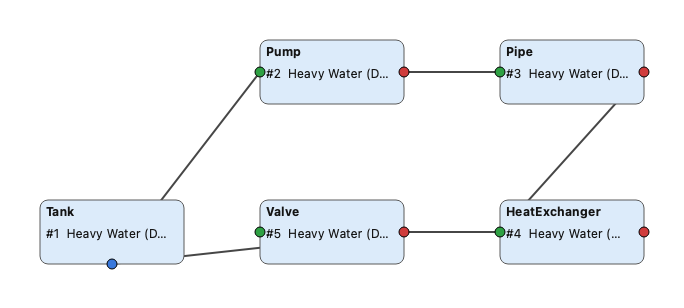
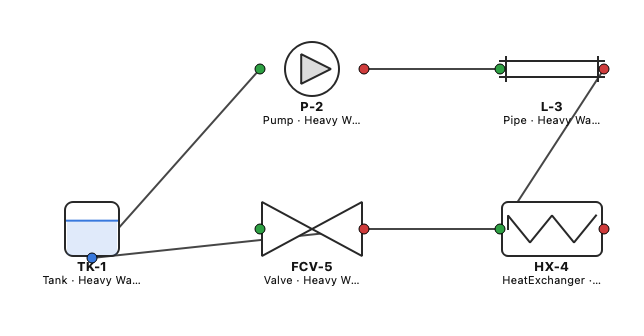
feat: P&ID symbols per component type with tags shown on canvas
Boundary=circle, Pump=circle+impeller, Valve=bowtie, Tank=cylinder with
live level, Orifice=plate, Pipe=flanged spool, HX=shell+serpentine,
Junction=node, Transmitter/Controller=ISA bubble, Actuator=diaphragm.
P&ID tag rendered under each symbol with type/fluid caption.

Changed region(s): [[0.0311, 0.3506, 0.9627, 0.8766], [0.3416, 0.1169, 0.9627, 0.4091], [0.8385, 0.4091, 0.8696, 0.4968]]

diff --git a/src/gui/DiagramItems.cpp b/src/gui/DiagramItems.cpp
@@ -2,6 +2,7 @@
 
 #include <QFont>
 #include <QPainter>
+#include <QPainterPath>
 #include <QPen>
 #include <cmath>
 
@@ -12,21 +13,118 @@ namespace umpnap {
 namespace {
 QColor portColor(PortRole r) {
   switch (r) {
-    case PortRole::Inlet: return QColor(46, 160, 67);    // green
-    case PortRole::Outlet: return QColor(207, 60, 60);   // red
-    case PortRole::Bidirectional: return QColor(56, 120, 220);  // blue
+    case PortRole::Inlet: return QColor(46, 160, 67);          // green
+    case PortRole::Outlet: return QColor(207, 60, 60);         // red
+    case PortRole::Bidirectional: return QColor(56, 120, 220); // blue
   }
   return Qt::gray;
 }
-QColor domainColor(Domain d) {
-  switch (d) {
-    case Domain::Hydraulic: return QColor(220, 235, 250);
-    case Domain::Gas: return QColor(245, 240, 220);
-    case Domain::Thermal: return QColor(250, 225, 220);
-    case Domain::Electrical: return QColor(235, 245, 225);
-    case Domain::Control: return QColor(235, 230, 245);
+
+// Draw the standard P&ID symbol for a component type inside rect g.
+void drawSymbol(QPainter* p, const std::string& type, const Component& c,
+                const QRectF& g) {
+  p->setRenderHint(QPainter::Antialiasing, true);
+  QPen line(QColor(40, 40, 40));
+  line.setWidth(2);
+  p->setPen(line);
+  p->setBrush(QColor(255, 255, 255));
+
+  const double cx = g.center().x(), cy = g.center().y();
+  const double r = std::min(g.width(), g.height()) / 2.0 - 2.0;
+
+  if (type == "Boundary") {
+    // Source/sink: circle.
+    p->drawEllipse(QPointF(cx, cy), r, r);
+
+  } else if (type == "Tank") {
+    // Vertical cylinder with a liquid level line.
+    QRectF body(cx - r, g.top() + 2, 2 * r, g.height() - 4);
+    double ry = std::min(8.0, body.height() / 4);
+    p->drawRoundedRect(body, ry, ry);
+    double lvl = c.param("level");
+    double h = std::max(0.001, c.param("height"));
+    double frac = std::min(1.0, lvl / h);
+    double yLine = body.bottom() - frac * (body.height() - 4) - 2;
+    QPen blue(QColor(56, 120, 220));
+    blue.setWidth(2);
+    p->setPen(blue);
+    p->drawLine(QPointF(body.left() + 2, yLine), QPointF(body.right() - 2, yLine));
+    p->fillRect(QRectF(body.left() + 2, yLine, body.width() - 4,
+                       body.bottom() - yLine - 1),
+                QColor(56, 120, 220, 40));
+
+  } else if (type == "Pump") {
+    // Centrifugal pump: circle with an impeller triangle pointing to outlet.
+    p->drawEllipse(QPointF(cx, cy), r, r);
+    QPolygonF tri;
+    tri << QPointF(cx - r * 0.4, cy - r * 0.55)
+        << QPointF(cx - r * 0.4, cy + r * 0.55) << QPointF(cx + r * 0.7, cy);
+    p->setBrush(QColor(220, 220, 220));
+    p->drawPolygon(tri);
+
+  } else if (type == "Pipe") {
+    // Pipe spool: two parallel run lines with flange ticks at each end.
+    double off = std::min(8.0, r * 0.5);
+    p->drawLine(QPointF(g.left(), cy - off), QPointF(g.right(), cy - off));
+    p->drawLine(QPointF(g.left(), cy + off), QPointF(g.right(), cy + off));
+    p->drawLine(QPointF(g.left() + 6, cy - off - 4), QPointF(g.left() + 6, cy + off + 4));
+    p->drawLine(QPointF(g.right() - 6, cy - off - 4), QPointF(g.right() - 6, cy + off + 4));
+
+  } else if (type == "Valve") {
+    // Bowtie (two triangles meeting at the stem centre).
+    QPolygonF bow;
+    bow << QPointF(g.left() + 2, cy - r) << QPointF(cx, cy)
+        << QPointF(g.left() + 2, cy + r);
+    p->drawPolygon(bow);
+    QPolygonF bow2;
+    bow2 << QPointF(g.right() - 2, cy - r) << QPointF(cx, cy)
+         << QPointF(g.right() - 2, cy + r);
+    p->drawPolygon(bow2);
+
+  } else if (type == "Orifice") {
+    // Pipe run with a thin plate (gap) across it.
+    p->drawLine(QPointF(g.left(), cy), QPointF(g.right(), cy));
+    QPen plate(QColor(40, 40, 40));
+    plate.setWidth(3);
+    p->setPen(plate);
+    p->drawLine(QPointF(cx, cy - r), QPointF(cx, cy - r * 0.25));
+    p->drawLine(QPointF(cx, cy + r * 0.25), QPointF(cx, cy + r));
+
+  } else if (type == "HeatExchanger") {
+    // Shell (rounded rect) with an internal tube serpentine.
+    QRectF shell(g.left() + 2, cy - r, g.width() - 4, 2 * r);
+    p->drawRoundedRect(shell, 6, 6);
+    QPainterPath path;
+    double x0 = shell.left() + 6, x1 = shell.right() - 6;
+    path.moveTo(x0, cy);
+    int seg = 4;
+    for (int i = 0; i <= seg; ++i) {
+      double x = x0 + (x1 - x0) * i / seg;
+      double y = cy + ((i % 2 == 0) ? -r * 0.5 : r * 0.5);
+      path.lineTo(x, y);
+    }
+    p->setBrush(Qt::NoBrush);
+    p->drawPath(path);
+
+  } else if (type == "Junction") {
+    p->setBrush(QColor(40, 40, 40));
+    p->drawEllipse(QPointF(cx, cy), 5, 5);
+
+  } else if (type == "Transmitter" || type == "Controller") {
+    // ISA instrument bubble: circle with a horizontal mid-line (field mount).
+    p->drawEllipse(QPointF(cx, cy), r, r);
+    p->drawLine(QPointF(cx - r, cy), QPointF(cx + r, cy));
+
+  } else if (type == "Actuator") {
+    // Diaphragm actuator: dome on a short stem.
+    QRectF dome(cx - r * 0.8, g.top() + 2, r * 1.6, r);
+    p->drawChord(dome, 0, 180 * 16);
+    p->drawLine(QPointF(cx, dome.bottom()), QPointF(cx, g.bottom() - 2));
+
+  } else {
+    // Fallback: rounded rectangle.
+    p->drawRoundedRect(g.adjusted(2, 2, -2, -2), 6, 6);
   }
-  return QColor(235, 235, 235);
 }
 }  // namespace
 
@@ -41,6 +139,7 @@ ComponentItem::ComponentItem(Component* c) : comp_(c) {
 
 void ComponentItem::layoutPorts() {
   ports_.clear();
+  const double gh = glyphH_;
   std::vector<int> inlets, outlets, bidir;
   for (int i = 0; i < (int)comp_->ports.size(); ++i) {
     switch (comp_->ports[i].role) {
@@ -56,13 +155,10 @@ void ComponentItem::layoutPorts() {
       PortVis pv;
       pv.name = port.name;
       pv.role = port.role;
-      if (bottom) {
-        double x = w_ * (k + 1.0) / (n + 1.0);
-        pv.local = QPointF(x, h_);
-      } else {
-        double y = h_ * (k + 1.0) / (n + 1.0);
-        pv.local = QPointF(xLocal, y);
-      }
+      if (bottom)
+        pv.local = QPointF(w_ * (k + 1.0) / (n + 1.0), gh);
+      else
+        pv.local = QPointF(xLocal, gh * (k + 1.0) / (n + 1.0));
       ports_.push_back(pv);
     }
   };
@@ -76,29 +172,42 @@ QRectF ComponentItem::boundingRect() const {
 }
 
 void ComponentItem::paint(QPainter* p, const QStyleOptionGraphicsItem*, QWidget*) {
-  QRectF body(0, 0, w_, h_);
-  p->setRenderHint(QPainter::Antialiasing, true);
-  QPen border(isSelected() ? QColor(20, 20, 20) : QColor(90, 90, 90));
-  border.setWidth(isSelected() ? 3 : 1);
-  p->setPen(border);
-  p->setBrush(domainColor(comp_->domain));
-  p->drawRoundedRect(body, 8, 8);
+  // Selection halo.
+  if (isSelected()) {
+    QPen halo(QColor(20, 90, 200));
+    halo.setWidth(2);
+    halo.setStyle(Qt::DashLine);
+    p->setPen(halo);
+    p->setBrush(Qt::NoBrush);
+    p->drawRoundedRect(QRectF(-4, -4, w_ + 8, h_ + 8), 6, 6);
+  }
 
+  // Symbol glyph in the upper region.
+  QRectF glyph(0, 0, w_, glyphH_);
+  drawSymbol(p, comp_->type, *comp_, glyph);
+
+  // Tag (P&ID name) + type/fluid caption below the glyph.
   p->setPen(QColor(20, 20, 20));
   QFont f = p->font();
   f.setBold(true);
+  f.setPointSizeF(f.pointSizeF() + 0.5);
   p->setFont(f);
-  p->drawText(body.adjusted(6, 4, -6, -h_ / 2),
-              Qt::AlignLeft | Qt::AlignTop, QString::fromStdString(comp_->type));
-  f.setBold(false);
-  p->setFont(f);
-  QRectF infoRect = body.adjusted(6, h_ / 2 - 6, -14, -4);
-  QString info = "#" + QString::number(comp_->id) + "  " +
-                 QString::fromStdString(comp_->fluid);
-  QString elided = p->fontMetrics().elidedText(info, Qt::ElideRight,
-                                               (int)infoRect.width());
-  p->drawText(infoRect, Qt::AlignLeft | Qt::AlignTop, elided);
+  QString tag = QString::fromStdString(comp_->name.empty() ? comp_->type
+                                                           : comp_->name);
+  p->drawText(QRectF(0, glyphH_, w_, 16), Qt::AlignHCenter | Qt::AlignTop, tag);
 
+  f.setBold(false);
+  f.setPointSizeF(f.pointSizeF() - 1.0);
+  p->setFont(f);
+  QString sub = QString::fromStdString(comp_->type);
+  if (comp_->domain == Domain::Hydraulic)
+    sub += " · " + QString::fromStdString(comp_->fluid);
+  QString elided =
+      p->fontMetrics().elidedText(sub, Qt::ElideRight, (int)w_ - 4);
+  p->drawText(QRectF(0, glyphH_ + 15, w_, 14), Qt::AlignHCenter | Qt::AlignTop,
+              elided);
+
+  // Port handles.
   for (const auto& pv : ports_) {
     p->setBrush(portColor(pv.role));
     p->setPen(QPen(Qt::black, 1));
@@ -117,7 +226,8 @@ int ComponentItem::portAt(const QPointF& scenePos) const {
 }
 
 QPointF ComponentItem::portScenePos(int idx) const {
-  if (idx < 0 || idx >= (int)ports_.size()) return mapToScene(QPointF(w_ / 2, h_ / 2));
+  if (idx < 0 || idx >= (int)ports_.size())
+    return mapToScene(QPointF(w_ / 2, glyphH_ / 2));
   return mapToScene(ports_[idx].local);
 }
 

diff --git a/src/gui/DiagramItems.h b/src/gui/DiagramItems.h
@@ -39,8 +39,9 @@ class ComponentItem : public QGraphicsItem {
 
   Component* comp_;
   std::vector<PortVis> ports_;
-  double w_ = 144.0;
-  double h_ = 64.0;
+  double w_ = 104.0;       // footprint width
+  double h_ = 92.0;        // footprint height (glyph + caption)
+  double glyphH_ = 58.0;   // height of the symbol glyph region
 };
 
 // A wire between two component ports.
